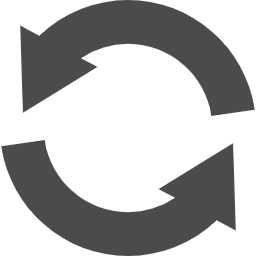
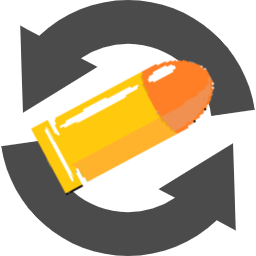
item

Changed region(s): [[0.125, 0.2188, 0.8438, 0.7812]]

diff --git a/RousianRoulette/Item.cpp b/RousianRoulette/Item.cpp
@@ -53,12 +53,22 @@ void Item::INIT()
     T_Bullet[7] = LoadGraph("Resources/images/Item/Mizuiro.png");
     T_Bullet[8] = LoadGraph("Resources/images/Item/Orange.png");
     T_Bullet[9] = LoadGraph("Resources/images/Item/Gray.png");
+
+    //アイテムimg
+    Bomb_Img = LoadGraph("Resources/images/Item2/dainamait.png");
+    Loope_Img = LoadGraph("Resources/images/Item2/Lupe.png");
+    Drag_img = LoadGraph("Resources/images/Item2/tabako.png");
+    CB_Img = LoadGraph("Resources/images/Item2/ChangeBullet.png");
+    Judge_Img = LoadGraph("Resources/images/Item2/Judge.png");
+
     TotemBack = LoadGraph("Resources/images/Result/ResultBackImg2.png");
     T_Last = LoadGraph("Resources/images/Item/T_Last.png");
     T_Last2 = LoadGraph("Resources/images/Item/T_Last2.png");
     T_Last3 = LoadGraph("Resources/images/Item/T_Last3.png");
     F_Flash = LoadGraph("Resources/images/Item/ F_Flash.png");
 
+
+    //SE
     FreezSE = LoadSoundMem("Resources/SE/Totem/Freez.mp3");
     RedBulletSE = LoadSoundMem("Resources/SE/Totem/RedBullet.mp3");
     WhiteBulletSE = LoadSoundMem("Resources/SE/Totem/WhiteBullet.mp3");
@@ -608,7 +618,16 @@ AbstractScene*Item::Update()
  /*   C_BULLET();*/
     TOTEM_UI_TIME();
 
-    if (Timer::FPS == 200)
+    //if (Timer::FPS == 120)
+    //{
+    //    Bomb_Img;
+    //    Loope_Img;
+    //    Drag_img;
+    //    CB_Img;
+    //    Judge_Img;
+    //}
+
+    if (Timer::FPS == 320)
     {
         L_Check = 0;
         J_Player_Flg = FALSE;
@@ -617,6 +636,8 @@ AbstractScene*Item::Update()
         DRAG_Flg = FALSE;
         C_BULLET_Flg = FALSE;
     }
+
+ 
 
   
    
@@ -649,27 +670,73 @@ void Item::Draw() const
     //ジャッジの結果表示
     if (J_Player_Flg == TRUE)
     {
-        DrawString(420, 40, "JUDGE:PLAYER LIFE -1", 0xfa2000, TRUE);
+        if (Timer::FPS <= 120)
+        {
+            //DrawBox(490, 190, 770, 410, 0xffffff, TRUE);
+            DrawBox(200, 110, 1090, 500, 0x000000, TRUE);
+            DrawGraph(540, 190, Judge_Img, TRUE);
+        }
+        else if (Timer::FPS >= 120)
+        {
+            DrawString(420, 40, "JUDGE:PLAYER LIFE -1", 0xfa2000, TRUE);
+        }
     }
     if (J_Enemy_Flg == TRUE)
     {
-        DrawString(420, 40, "JUDGE:ENEMY LIFE -1", 0xfa2000, TRUE);
+        if (Timer::FPS <= 120)
+        {
+            //DrawBox(490, 190, 770, 410, 0xffffff, TRUE);
+            DrawBox(200, 110, 1090, 500, 0xFFFF00, TRUE);
+            DrawGraph(540, 190, Judge_Img, TRUE);
+        }
+        else if (Timer::FPS >= 120)
+        {
+            DrawString(420, 40, "JUDGE:ENEMY LIFE -1", 0xfa2000, TRUE);
+        }
     }
 
     if (Bomb_Flg == TRUE)
     {
-        DrawString(450, 40, "Bullet Power UP", 0xffffff, TRUE);
+        if (Timer::FPS <= 120)
+        {
+            DrawGraph(500, 190, Bomb_Img, TRUE);
+        }
+        else if(Timer::FPS >= 120)
+        {
+            DrawString(450, 40, "Bullet Power UP", 0xffffff, TRUE);
+        }
+       
     }
 
     if (DRAG_Flg == TRUE)
     {
-        DrawString(430, 40, "LIFE +1", 0xffffff, TRUE);
+        if (Timer::FPS <= 120)
+        {
+            DrawBox(200, 110, 1090, 500, 0xffffff, TRUE);
+            //DrawBox(500, 200, 760, 400, 0x000000, TRUE);
+            DrawGraph(520, 170, Drag_img, TRUE);
+        }
+        else if (Timer::FPS >= 120)
+        {
+            DrawString(430, 40, "LIFE +1", 0xffffff, TRUE);
+        }
     }
+
 
     if (C_BULLET_Flg == TRUE)
     {
-        DrawString(400, 40, "CHANGE BULLET", 0xffffff, TRUE);
+        if (Timer::FPS <= 120)
+        {
+            DrawBox(200, 110, 1090, 500, 0xfa2000, TRUE);
+            /* DrawBox(500, 200, 760, 400, 0x000000, TRUE);*/
+            DrawGraph(500, 170, CB_Img, TRUE);
+        }
+        else if (Timer::FPS >= 120)
+        {
+            DrawString(430, 40, "CHANGE BULLET", 0xffffff, TRUE);
+        }
     }
+    
 
    
 

diff --git a/RousianRoulette/Title.cpp b/RousianRoulette/Title.cpp
@@ -94,12 +94,12 @@ AbstractScene* Title::Update()
 			break;
 			//�����L���O��ʂ�
 		case TITLE_MENU::GAME_RANKING:
-			return new HelpScene();
+			return new  DrawRankingScene(100);
 			StopSoundMem(TitleBgm);
 			break;
 			//�w���v���
 		case TITLE_MENU::GAME_HELP:
-			return new DrawRankingScene(100);
+			return new HelpScene();
 			StopSoundMem(TitleBgm);
 			break;
 			//�G���h��ʂ�

diff --git a/RousianRoulette/Item.h b/RousianRoulette/Item.h
@@ -42,6 +42,12 @@ private:
 	int T_Last3;
 	int F_Flash;
 
+	int Bomb_Img;
+	int	Loope_Img;
+	int Drag_img;
+	int CB_Img;
+	int Judge_Img;
+
 	int BombSE;
 	int DragSE;
 	int LoupeSE;
